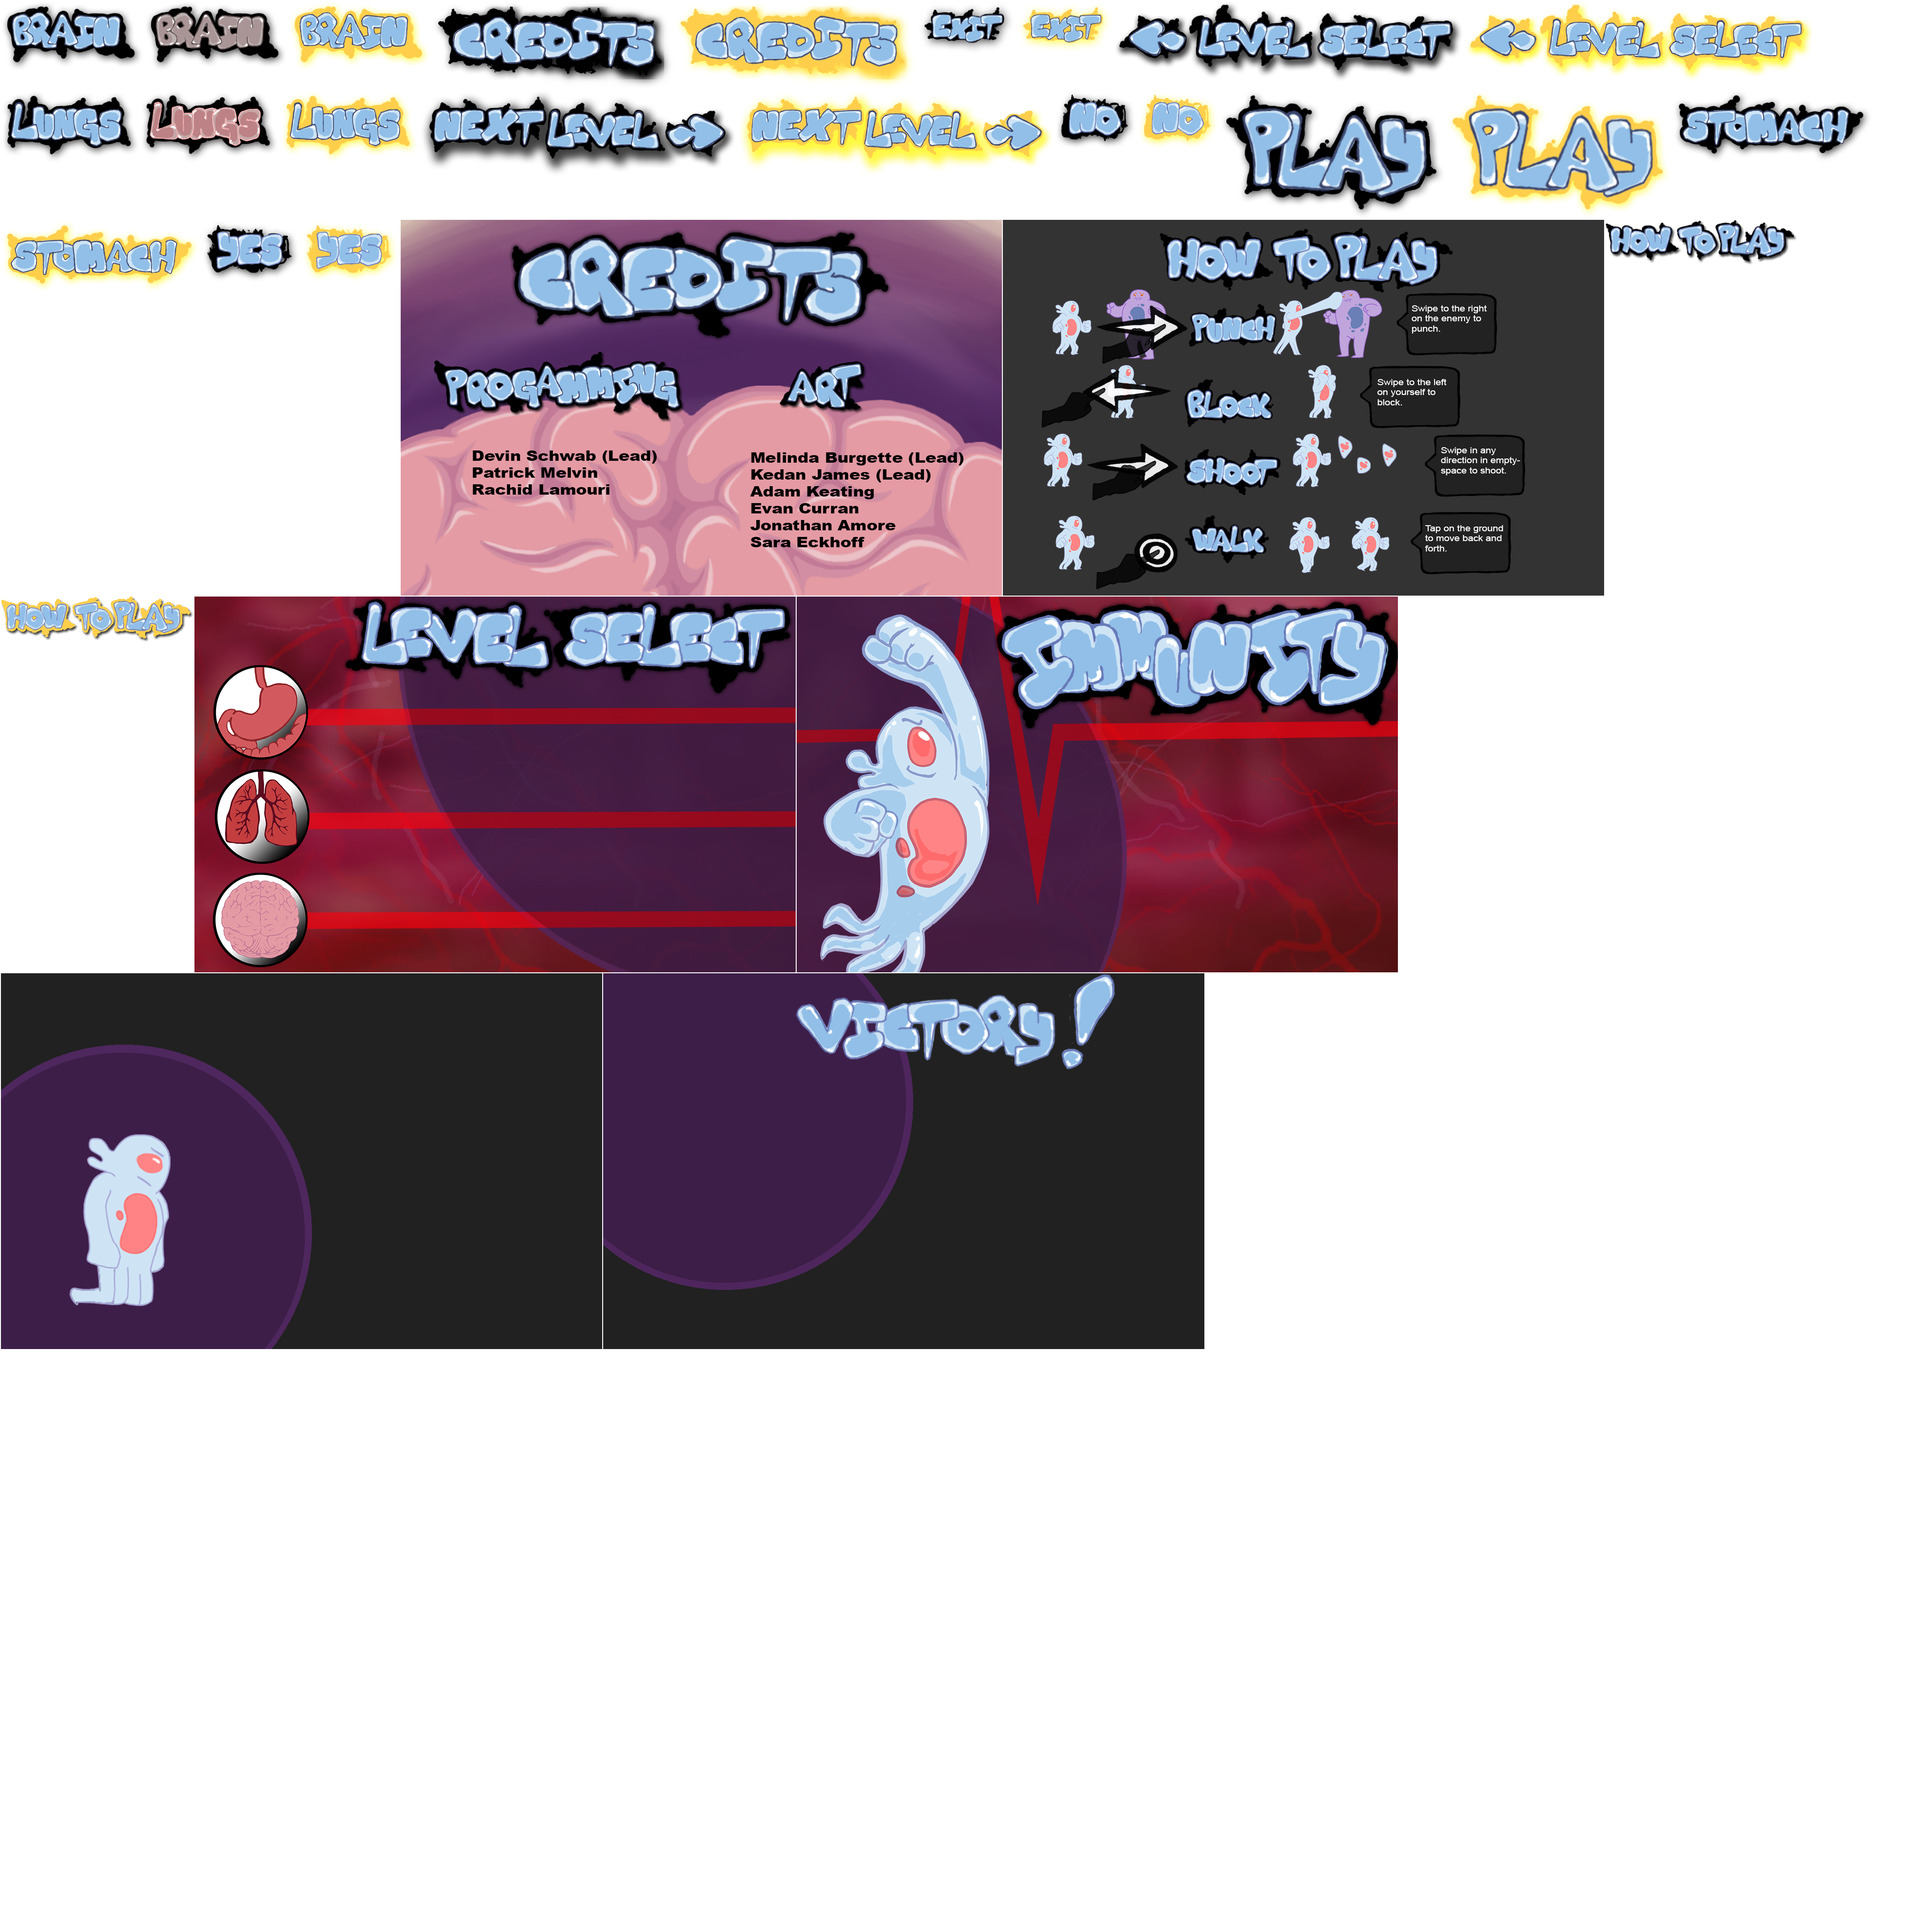
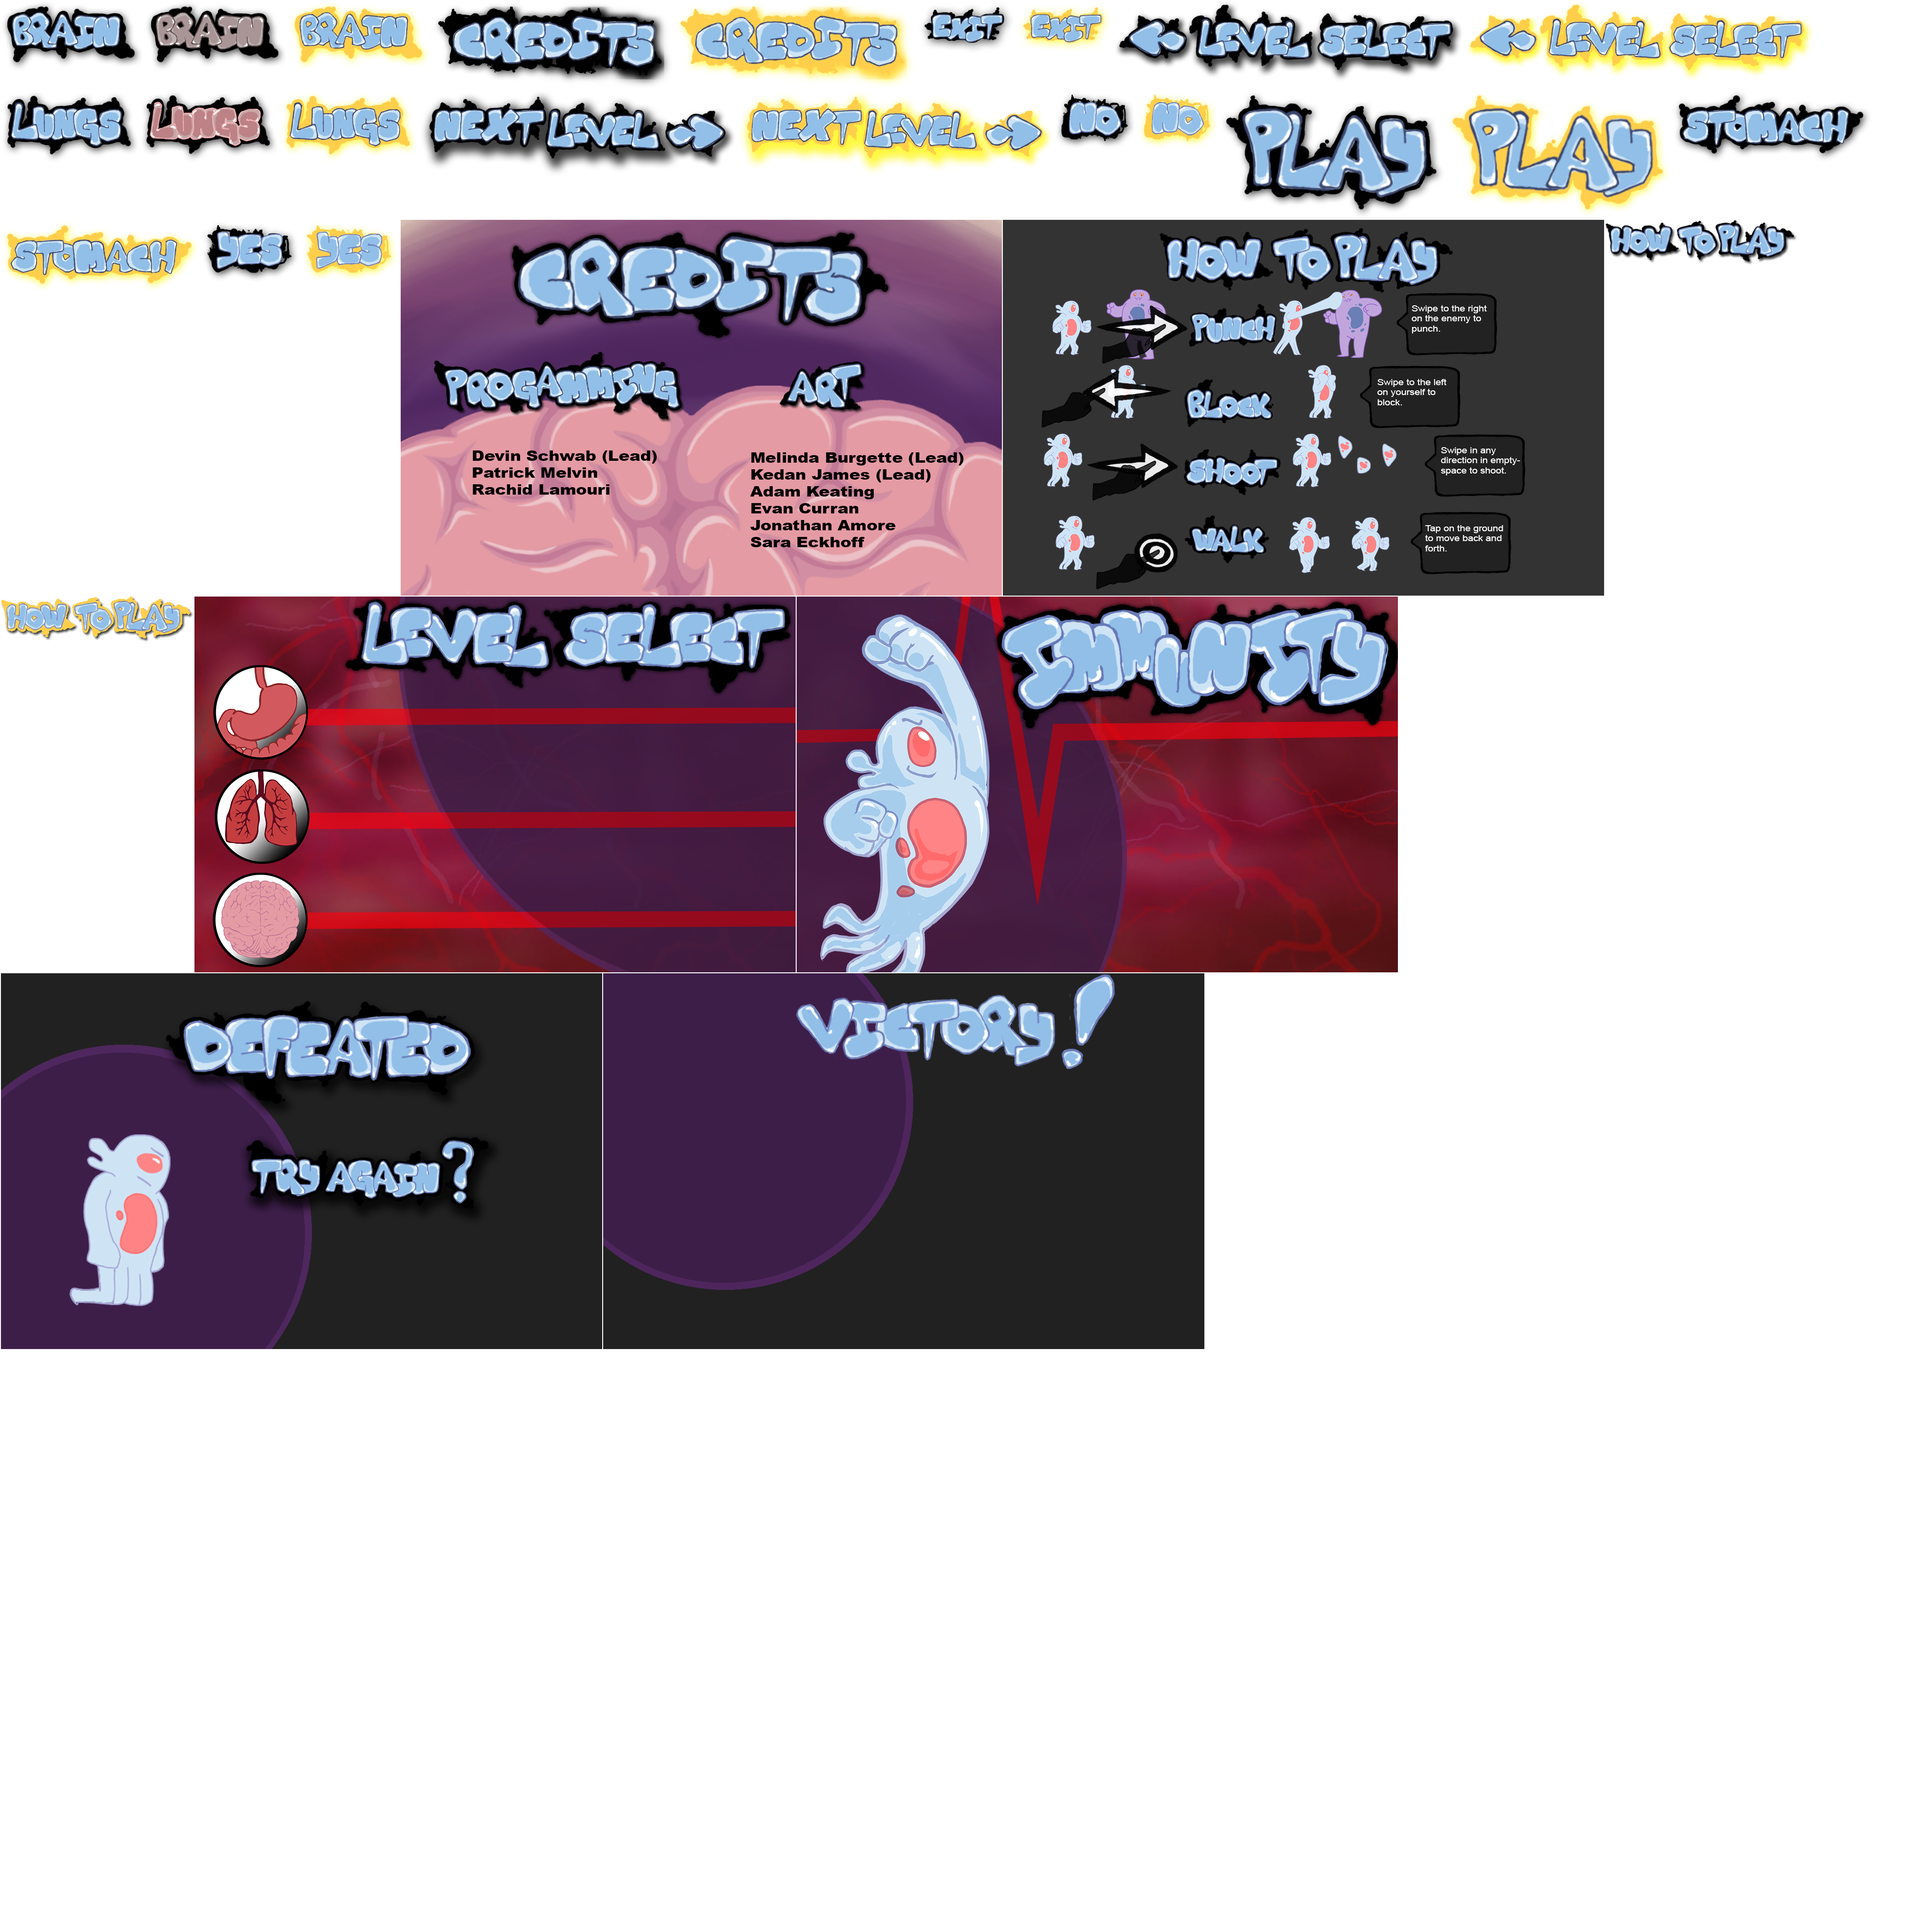
Fixed a few more menu bugs. Also extended the time until the victory/defeat screens are shown to give more emphasis to the death animations.

Changed region(s): [[0.0938, 0.5, 0.25, 0.625]]

diff --git a/immunity/Assets/Scripts/Combat/CombatPage.cs b/immunity/Assets/Scripts/Combat/CombatPage.cs
@@ -54,6 +54,8 @@ public class CombatPage : ImmunityPage, FMultiTouchableInterface {
 	private bool player_won_ = false;
 	private bool player_lost_ = false;
 	
+	float finished_time = 0;
+	
 	Dictionary<int, FTouch> touch_starts = new Dictionary<int, FTouch>();
 	float touch_start_time;
 	
@@ -185,6 +187,7 @@ public class CombatPage : ImmunityPage, FMultiTouchableInterface {
 			
 		if(player_.isDead)
 		{
+			finished_time = Time.time;
 			player_lost_ = true;
 			player_.play("death");
 			
@@ -202,7 +205,7 @@ public class CombatPage : ImmunityPage, FMultiTouchableInterface {
 		enemy_.curr_behavior_ = EnemyCharacter.BehaviorType.HIT;
 		if(enemy_.isDead)
 		{
-			// TODO: Show win screen
+			finished_time = Time.time;			
 			player_won_ = true;
 			enemy_.play("death");
 			
@@ -218,12 +221,9 @@ public class CombatPage : ImmunityPage, FMultiTouchableInterface {
 		if(enemy_.x - player_.x < 50.0f + enemy_.width/2.0f + player_.width/2.0f)
 		{
 			Debug.Log("Too close to player");
+			enemy_.curr_behavior_ = EnemyCharacter.BehaviorType.IDLE;
+			enemy_.play("idle");
 			
-			if(!enemy_.currentAnim.name.Equals("idle") && enemy_.FinishedCount >= 1)
-			{
-				enemy_.curr_behavior_ = EnemyCharacter.BehaviorType.IDLE;
-				enemy_.play("idle");
-			}
 			return;
 		}
 				
@@ -575,7 +575,8 @@ public class CombatPage : ImmunityPage, FMultiTouchableInterface {
 				PlayerPrefs.SetString("highest_level", "brain");
 			
 			player_.play("idle");
-			if(enemy_.FinishedCount >= 1)
+			
+			if(enemy_.FinishedCount >= 1 && Time.time - finished_time > 3.0f)
 			{
 				if(displayEndScreen){
 					victory = new FSprite("victory screen final");
@@ -615,7 +616,7 @@ public class CombatPage : ImmunityPage, FMultiTouchableInterface {
 		if(player_lost_)
 		{
 			enemy_.play("idle");
-			if(player_.FinishedCount >= 1)
+			if(player_.FinishedCount >= 1 && Time.time - finished_time > 5.0f)
 			{
 				if(displayEndScreen){
 					defeat = new FSprite("try again screen final");
@@ -629,15 +630,9 @@ public class CombatPage : ImmunityPage, FMultiTouchableInterface {
 					yesButton.SignalRelease += HandleYesButton;
 					noButton.SignalRelease += HandleNoButton;
 
-					yesButton.SetPosition(new Vector2(-120, -100));
-					noButton.SetPosition(new Vector2(150,-100));
+					yesButton.SetPosition(new Vector2(Futile.screen.halfWidth*0.0f, Futile.screen.halfHeight*-.65f));
+					noButton.SetPosition(new Vector2(Futile.screen.halfWidth*0.43f, Futile.screen.halfHeight*-.65f));
 					displayEndScreen = false;
-					
-					AddChild(player_);
-					player_.x = -Futile.screen.halfWidth*.6f;
-					player_.y = -Futile.screen.halfHeight*.12f;
-					player_.scale = 1.4f;
-					player_.play("idle");
 				}
 			}
 			
